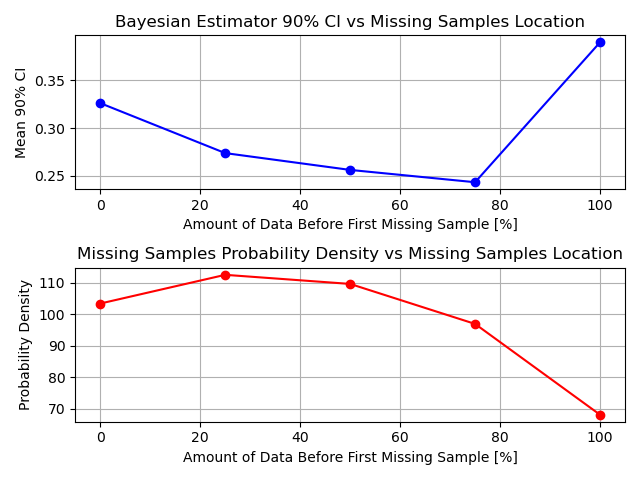
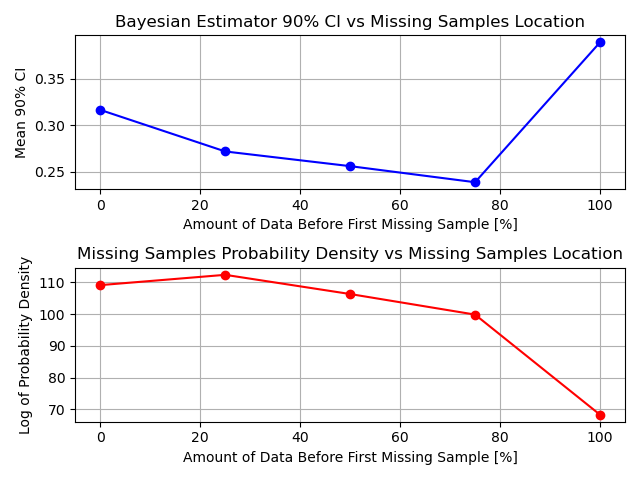
Fix Y-axis label to log of probability density.

diff --git a/ARIMA/examples/bayesian.py b/ARIMA/examples/bayesian.py
@@ -206,7 +206,7 @@ if __name__ == '__main__' or __examples__name__ == '__main__':
     plt.subplot(2, 1, 2)
     plt.plot(100 * missing_ratios, prob_missing_given_obs, 'ro-')
     plt.xlabel('Amount of Data Before First Missing Sample [%]')
-    plt.ylabel('Probability Density')
+    plt.ylabel('Log of Probability Density')
     plt.title('Missing Samples Probability Density vs Missing Samples Location')
     plt.grid()
     plt.tight_layout()
